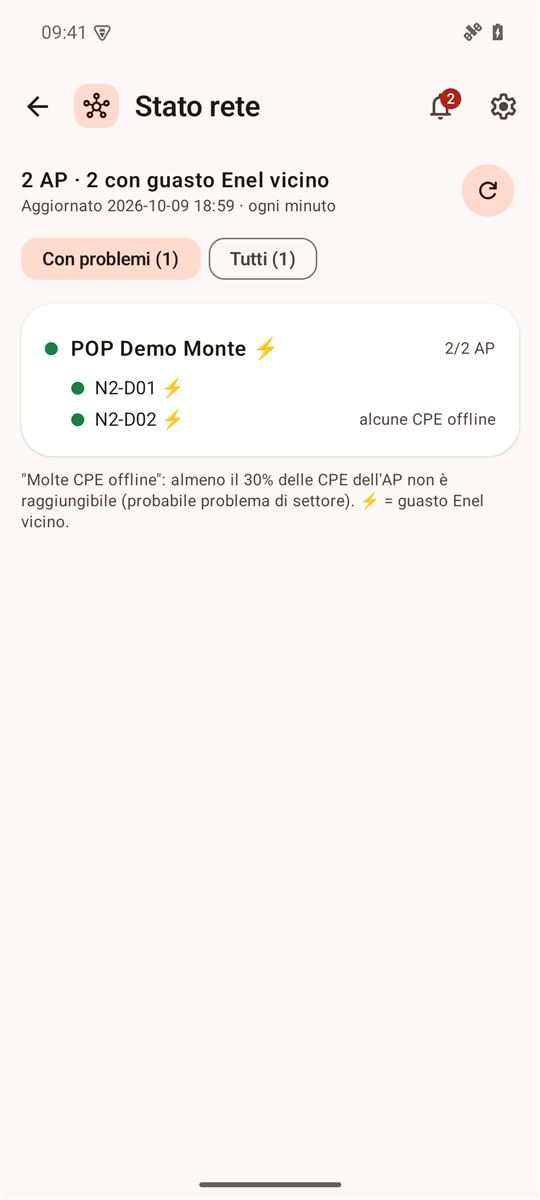
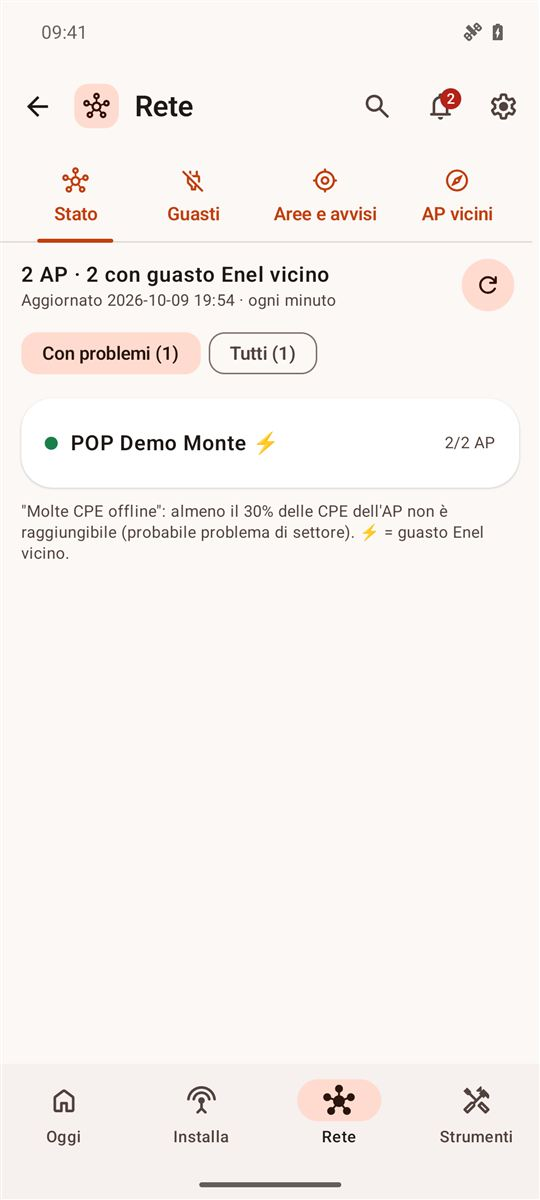
Guide aggiornate alla nuova navigazione: Oggi/Installa/Rete/Strumenti, interventi, aree di interesse, visibilità, firmware, accesso persistente

diff --git a/web/wiki/index.html b/web/wiki/index.html
@@ -19,7 +19,9 @@
   <ol>
     <li><a href="#prima">Prima di partire</a></li>
     <li><a href="#accesso">Primo avvio e accesso</a></li>
-    <li><a href="#home">La schermata principale</a></li>
+    <li><a href="#home">La schermata principale</a>
+      <ol><li><a href="#interventi">Interventi di oggi</a></li></ol>
+    </li>
     <li><a href="#installazione">Nuova installazione passo per passo</a>
       <ol>
         <li><a href="#passo1">Configurazione</a></li>
@@ -32,8 +34,16 @@
     </li>
     <li><a href="#ripuntamento">Ripuntamento, cambio AP, sostituzione</a></li>
     <li><a href="#dopo">Dopo l'installazione</a></li>
-    <li><a href="#campo">Strumenti di campo</a></li>
-    <li><a href="#monitoraggio">Stato rete e guasti Enel</a></li>
+    <li><a href="#campo">Strumenti di campo</a>
+      <ol>
+        <li><a href="#apvicini">AP vicini</a></li>
+        <li><a href="#visibilita">Visibilità verso l'AP</a></li>
+        <li><a href="#firmware">Aggiornare il firmware</a></li>
+      </ol>
+    </li>
+    <li><a href="#monitoraggio">Stato rete e guasti Enel</a>
+      <ol><li><a href="#aree">Aree e avvisi</a></li></ol>
+    </li>
     <li><a href="#rete">Strumenti di rete</a></li>
     <li><a href="#impostazioni">Impostazioni</a></li>
     <li><a href="#console">La console web</a></li>
@@ -45,7 +55,7 @@
 <main>
 <h1 id="inizio">Guida installatore</h1>
 <p class="lead">Una nuova installazione dall'inizio alla fine con l'app CDA Net CPE, più tutti gli strumenti che usi in campo e in ufficio.</p>
-<div class="note">Le schermate vengono dall'app vera (versione 1.32.9, con la nuova grafica) e dalla console web, usate con l'account installatore di prova <b>tecnico.demo</b>. Clienti, AP, indirizzi e misure sono <b>dati dimostrativi</b>, non clienti o apparati reali. <b>Tocca una schermata per ingrandirla</b>: con le frecce passi alle altre, con <i>Dimensione reale</i> leggi i dettagli, con Indietro torni alla guida.</div>
+<div class="note">Le schermate vengono dall'app vera (versione 1.32.12) e dalla console web, usate con l'account installatore di prova <b>tecnico.demo</b>. Clienti, AP, indirizzi e misure sono <b>dati dimostrativi</b>, non clienti o apparati reali. <b>Tocca una schermata per ingrandirla</b>: con le frecce passi alle altre, con <i>Dimensione reale</i> leggi i dettagli, con Indietro torni alla guida.</div>
 
 <h2 id="prima">1. Prima di partire</h2>
 <div class="card">
@@ -53,8 +63,8 @@
     <li><b>Telefono Android</b> con l'app <b>CDA Net CPE</b> installata e aggiornata. L'app si aggiorna da sola: se c'è una versione nuova va installata prima di poter lavorare.</li>
     <li><b>Account installatore</b> (utente e password) ricevuto dall'amministratore. Vedi solo le tue installazioni e i POP/AP che ti sono stati assegnati.</li>
     <li><b>Internet sul telefono</b> per preparare la configurazione. Dopo, mentre lavori sulla CPE, Internet non serve più.</li>
-    <li>La <b>CPE</b> nuova (o resettata), con l'etichetta di MAC e seriale leggibile, alimentatore PoE e cavo.</li>
-    <li>I dati del cliente: <b>utente e password PPPoE</b> (RADIUS) e l'indirizzo dell'installazione.</li>
+    <li>La <b>CPE</b> nuova (o resettata), con l'etichetta di MAC e seriale leggibile (MAC e seriale si prendono sempre dall'etichetta), alimentatore PoE e cavo.</li>
+    <li>I dati del cliente: <b>utente e password PPPoE</b> (RADIUS) e l'indirizzo dell'installazione. Se l'intervento te l'ha assegnato l'ufficio, li trovi già nell'app (vedi <a href="#interventi">Interventi di oggi</a>).</li>
   </ul>
 </div>
 <div class="tip">Alcune funzioni possono non comparire sul tuo account: le attiva l'amministratore. Se ti serve uno strumento che non vedi, chiedi a lui.</div>
@@ -67,29 +77,36 @@
   <figure><img src="img/app-login.jpg" alt="Schermata di accesso" loading="lazy"><figcaption>Accesso installatore, con il server CDA Net e Verifica collegamento.</figcaption></figure>
   <figure><img src="img/app-aggiornamento.jpg" alt="Aggiornamento obbligatorio" loading="lazy"><figcaption>Se esce una versione nuova l'app la scarica da sola: autorizza l'installazione e conferma.</figcaption></figure>
 </div>
-<h3>Accesso rapido con impronta o volto</h3>
-<p>Dopo il primo accesso con la password l'app propone l'<b>accesso rapido</b>: tocca <b>Attiva</b> e da quel momento al login basta impronta o volto. La password non viene salvata sul telefono. Serve un'impronta o il volto già registrato nelle impostazioni di sicurezza del telefono. Si disattiva da <a href="#impostazioni">Impostazioni</a>.</p>
+<h3>Resti collegato</h3>
+<p>Dopo il primo accesso con la password l'app <b>resta collegata</b>: le volte successive si apre direttamente, senza password. La sessione si rinnova a ogni apertura e scade solo se non usi l'app per 30 giorni. Torna la richiesta della password se cambi la password, se tocchi <b>Esci</b>, dopo una reinstallazione dell'app o se l'amministratore disattiva l'account. La password non viene mai salvata sul telefono.</p>
+<p>Per più sicurezza, in <a href="#impostazioni">Impostazioni</a> attiva <b>Sblocco con impronta o volto a ogni apertura</b>: l'app chiede impronta o volto ogni volta che la apri o ci torni dopo più di un minuto.</p>
 <h3>Aggiornamento obbligatorio</h3>
 <p>Quando il server pubblica una versione nuova dell'app, quella vecchia non permette più di accedere: compare <i>Aggiornamento obbligatorio</i>, il download parte da solo e viene verificato. La prima volta Android chiede di <b>consentire l'installazione da questa origine</b>: tocca <b>Apri l'autorizzazione</b>, attiva l'interruttore, torna indietro e tocca <b>Ho autorizzato, installa</b>.</p>
 <p>Il tema chiaro o scuro segue quello del telefono.</p>
 
 <h2 id="home">3. La schermata principale</h2>
-<p>In alto c'è il riquadro arancione con il tuo nome e i due interventi che fai più spesso: <b>Nuova installazione</b> e <b>Ripuntamento o cambio AP</b>. Se hai un intervento lasciato a metà, al loro posto compare <b>Riprendi l'intervento</b>.</p>
-<p>Sotto, gli strumenti sono divisi in gruppi, ognuno con la sua icona:</p>
+<p>In basso c'è la barra con le quattro aree dell'app, sempre a portata di pollice:</p>
 <ul>
-  <li><b>Il mio lavoro</b>: Storico, <a href="#notifiche">Notifiche</a>, Le mie CPE;</li>
-  <li><b>Rete e guasti</b>: Stato rete, Guasti Enel, Copertura;</li>
-  <li><b>In campo</b>: Trova l'AP, Puntamento antenna, Diagnosi CPE;</li>
-  <li><b>Strumenti di rete</b>: Wi-Fi Analyzer, scanner, diagnostica, TVCC, MikroTik, accesso remoto;</li>
-  <li><b>Aiuto</b>: questa guida.</li>
+  <li><b>Oggi</b>: la schermata principale;</li>
+  <li><b>Installa</b>: le tue installazioni (<a href="#dopo">da completare, storico, stato delle CPE</a>);</li>
+  <li><b>Rete</b>: <a href="#monitoraggio">stato della rete, guasti Enel, aree di interesse e AP vicini</a>;</li>
+  <li><b>Strumenti</b>: <a href="#campo">CPE collegata</a>, <a href="#rete">strumenti di rete</a> e questa guida.</li>
 </ul>
-<p>In alto a destra, in ogni schermata, la <b>campanella</b> apre le <a href="#notifiche">Notifiche</a> (il numero rosso indica quelle da leggere) e l'<b>ingranaggio</b> le <a href="#impostazioni">Impostazioni</a>.</p>
+<p>In <b>Oggi</b>, in alto, il riquadro arancione con il tuo nome e i due interventi che fai più spesso: <b>Nuova installazione</b> e <b>Ripuntamento o cambio AP</b>. Se hai un intervento lasciato a metà compare <b>Riprendi l'intervento</b>. Sotto trovi gli <a href="#interventi">interventi di oggi</a> assegnati dall'ufficio, i contatori (installazioni da completare, notifiche, guasti nelle tue zone, CPE con problemi: toccane uno per aprirlo) e le scorciatoie.</p>
+<p>In alto a destra, in ogni schermata: la <b>lente</b> cerca un cliente, un MAC o un SSID tra le tue installazioni e le tue CPE; la <b>campanella</b> apre le <a href="#notifiche">Notifiche</a> (il numero rosso indica quelle da leggere); l'<b>ingranaggio</b> apre le <a href="#impostazioni">Impostazioni</a>.</p>
 <div class="shots">
-  <figure><img src="img/app-home.jpg" alt="Home dell'app" loading="lazy"><figcaption>Home: nuova installazione o ripuntamento, poi Il mio lavoro e Rete e guasti.</figcaption></figure>
-  <figure><img src="img/app-home2.jpg" alt="Home, strumenti di campo e di rete" loading="lazy"><figcaption>Più in basso: In campo e Strumenti di rete.</figcaption></figure>
-  <figure><img src="img/app-home3.jpg" alt="Home, altri strumenti e guida" loading="lazy"><figcaption>In fondo: gli altri strumenti di rete e la Guida, con la versione dell'app.</figcaption></figure>
+  <figure><img src="img/app-home.jpg" alt="Oggi" loading="lazy"><figcaption>Oggi: nuova installazione o ripuntamento e gli interventi del giorno.</figcaption></figure>
+  <figure><img src="img/app-home2.jpg" alt="Oggi, contatori e scorciatoie" loading="lazy"><figcaption>Contatori e scorciatoie; in basso le quattro aree.</figcaption></figure>
+  <figure><img src="img/app-cerca.jpg" alt="Ricerca" loading="lazy"><figcaption>Ricerca per cliente, MAC o SSID.</figcaption></figure>
 </div>
-<p>Questa guida si apre anche dall'app, dal riquadro <b>Guida</b>.</p>
+<h3 id="interventi">Interventi di oggi</h3>
+<p>Gli interventi che l'ufficio ti ha assegnato per oggi compaiono in <b>Oggi</b> con cliente, fascia oraria, tipo (nuova installazione, ripuntamento, guasto, sopralluogo), indirizzo, contatto e note:</p>
+<ul>
+  <li><b>Inizia</b>: per una nuova installazione apre il <a href="#passo1">passo 1</a> con cliente, posizione, modello e utente PPPoE già compilati. La password PPPoE la conosce solo il server: non la vedi e non devi scriverla.</li>
+  <li><b>Naviga</b>: apre il navigatore verso l'indirizzo.</li>
+  <li><b>Rimanda</b>: scrivi il motivo (per esempio <i>cliente assente</i>); l'ufficio lo vede subito.</li>
+</ul>
+<p>Quando il provisioning riesce, l'intervento si chiude da solo. Con Internet l'app scarica in anticipo anche gli AP intorno a ogni indirizzo, così <a href="#apvicini">AP vicini</a> funziona pure su un tetto senza segnale.</p>
 <p>Se compare un avviso arancione in alto (per esempio <i>collaudi in attesa di invio</i>) non devi fare nulla: i dati partono da soli appena il telefono torna online.</p>
 
 <h2 id="installazione">4. Nuova installazione passo per passo</h2>
@@ -110,14 +127,15 @@
 <h3 id="passo1">Passo 1 · Configurazione</h3>
 <ol class="steps">
   <li><b>Modello</b>: scegli il modello della CPE. Il <i>Template</i> si imposta da solo. Se compare "Nessun template airOS per …" quel modello non è ancora pronto: avvisa l'amministratore.</li>
-  <li><b>MAC</b> e <b>Seriale</b>: scrivili dall'etichetta oppure tocca <b>Scansiona etichetta (barcode/QR)</b>. Sotto il campo vedi il MAC nel formato che verrà usato.</li>
-  <li><b>Posizione CPE e AP consigliati</b>: tocca <b>Usa GPS del telefono</b> stando nel punto dove monterai l'antenna, oppure cerca l'indirizzo. L'app propone gli <b>AP consigliati da qui</b> con distanza, direzione, tilt e segnale stimato; il primo è già scelto, con <b>Usa</b> ne prendi un altro.</li>
+  <li><b>MAC</b> e <b>Seriale</b>: tocca <b>Scansiona etichetta (barcode/QR)</b> sull'etichetta della CPE (o scrivili da lì). Il MAC dell'etichetta è quello della LAN, lo stesso che usa la rete per riconoscere la CPE. Sotto il campo vedi il MAC nel formato che verrà usato. Prima di scrivere la configurazione l'app controlla che il MAC sia proprio quello della CPE collegata.</li>
+  <li><b>Rileva il modello dalla CPE</b>: collegato alla Wi-Fi della CPE, l'app chiede alla CPE il suo modello e lo imposta.</li>
+  <li><b>Posizione CPE e AP consigliati</b>: tocca <b>Usa GPS del telefono</b> stando nel punto dove monterai l'antenna, oppure cerca l'indirizzo. L'app propone gli <b>AP consigliati da qui</b> con distanza, direzione, tilt e segnale stimato; il primo è già scelto, con <b>Usa</b> ne prendi un altro. Con <a href="#visibilita">Visibilità</a> controlli prima di salire se il terreno copre l'AP.</li>
   <li><b>Wireless Station</b>: nodo, distretto ed eventuale <b>Rilancio</b> si compilano dall'AP scelto; l'SSID risultante è del tipo <code>CDA-NET-N2-D01</code> (con rilancio <code>CDA-NET-N2-D01-R1</code>).</li>
   <li><b>Router / PPPoE</b>: utente e password PPPoE del cliente. Dall'utente l'app ricava il nome del dispositivo (es. <i>CLIENTE DEMO11</i>). La password serve solo per questo provisioning e non viene salvata.</li>
   <li>Con <b>Verifica piano</b> vedi l'elenco di tutto quello che verrà scritto nella CPE. Poi tocca <b>Prepara provisioning</b>.</li>
 </ol>
 <div class="shots">
-  <figure><img src="img/app-config.jpg" alt="Passo 1, modello, MAC e GPS" loading="lazy"><figcaption>Modello, template, MAC/seriale e posizione dal GPS.</figcaption></figure>
+  <figure><img src="img/app-config.jpg" alt="Passo 1, modello, MAC e seriale" loading="lazy"><figcaption>Modello, template, MAC e seriale dall'etichetta, Rileva il modello dalla CPE.</figcaption></figure>
   <figure><img src="img/app-config2.jpg" alt="AP consigliati" loading="lazy"><figcaption>AP consigliati con segnale stimato; sotto, nodo, distretto, rilancio e SSID.</figcaption></figure>
   <figure><img src="img/app-prepara.jpg" alt="PPPoE e preparazione" loading="lazy"><figcaption>Dati PPPoE e Verifica piano: tutto quello che verrà scritto nella CPE.</figcaption></figure>
 </div>
@@ -154,10 +172,16 @@
 </div>
 
 <h3 id="passo5">Passo 5 · Puntamento</h3>
-<p>Il numero grande è il <b>segnale ricevuto dalla CPE</b>, aggiornato di continuo, con il valore <b>atteso</b> calcolato dall'AP e il <b>picco</b> raggiunto. Il grafico mostra l'andamento: la linea verde tratteggiata è la soglia "buono", quella rossa il minimo accettabile. Con il <b>bip</b> attivo il tono sale quando il segnale migliora: ruota lentamente l'antenna in orizzontale, poi in verticale, e fermati sul picco.</p>
+<p>Il numero grande è il <b>segnale ricevuto dalla CPE</b>, aggiornato di continuo, con il valore <b>atteso</b> calcolato dall'AP e il <b>picco</b> raggiunto. Il grafico mostra l'andamento: la linea verde tratteggiata è la soglia "buono", quella rossa il minimo accettabile. Ruota lentamente l'antenna in orizzontale, poi in verticale, e fermati sul picco. Sotto il numero ci sono gli aiuti per il tetto, da usare con il telefono in tasca o appoggiato al palo:</p>
+<ul>
+  <li><b>Bip</b>: il tono sale quando il segnale migliora;</li>
+  <li><b>Voce</b>: l'app legge il segnale ad alta voce (<i>meno 58</i>);</li>
+  <li><b>Vibra al picco</b>: una vibrazione ogni volta che superi il picco raggiunto.</li>
+</ul>
+<p>Durante il puntamento, la bussola, il mirino e tutta l'installazione lo schermo resta acceso.</p>
 <p>Sotto trovi la <b>direzione dell'AP</b> (azimut, tilt, distanza) e i pulsanti per <b>Mirino in realtà aumentata</b>, <b>Bussola verso l'AP</b>, <b>Mappa e lista degli AP</b> e il <b>Puntamento a schermo intero</b>. <b>Azzera picco e grafico</b> ricomincia la misura.</p>
 <div class="shots">
-  <figure><img src="img/app-puntamento.jpg" alt="Puntamento" loading="lazy"><figcaption>−61 dBm (ottimo), atteso −60, picco −59, catene bilanciate, con il grafico.</figcaption></figure>
+  <figure><img src="img/app-puntamento.jpg" alt="Puntamento" loading="lazy"><figcaption>−62 dBm (ottimo), atteso −60, picco −60, catene bilanciate; sotto Bip, Voce e Vibra al picco.</figcaption></figure>
   <figure><img src="img/app-puntamento2.jpg" alt="Direzione dell'AP" loading="lazy"><figcaption>Direzione dell'AP e strumenti di puntamento.</figcaption></figure>
   <figure><img src="img/app-mirino.jpg" alt="Mirino in realtà aumentata" loading="lazy"><figcaption>Mirino AR: porta il cerchio sull'obiettivo seguendo le indicazioni ("gira a sinistra", "alza"). Qui lo sfondo è la fotocamera di prova dell'emulatore; sul telefono vedi il paesaggio.</figcaption></figure>
 </div>
@@ -199,10 +223,14 @@
 
 <h2 id="ripuntamento">5. Ripuntamento, cambio AP, sostituzione</h2>
 <p><b>CPE già installata: ripuntamento o cambio AP</b> salta configurazione e scrittura: ti colleghi alla Wi-Fi della CPE o del router del cliente, l'app trova la CPE e riparti da <a href="#passo3">Verifica della CPE</a>. Se la CPE era stata installata con l'app, collaudo e foto finali si aggiungono a quell'installazione; altrimenti il collaudo si può condividere ma non salvare sul server.</p>
-<p>Ci arrivi anche da <a href="#dopo">Le mie CPE</a> con il pulsante <b>Ripuntamento</b> su una CPE con segnale calato.</p>
+<p>Ci arrivi anche da <a href="#dopo">Installa → Stato CPE</a> con il pulsante <b>Ripuntamento</b> su una CPE con segnale calato.</p>
 <p><b>Sostituzione CPE</b> (antenna guasta): dallo <a href="#dopo">Storico</a> apri l'installazione e tocca <b>Sostituisci CPE</b>. Parte una nuova installazione con i dati del cliente già compilati: inserisci il MAC della CPE nuova e prosegui come al <a href="#passo1">passo 1</a>.</p>
 
 <h2 id="dopo">6. Dopo l'installazione</h2>
+<p>Tutto si trova in <b>Installa</b>, nella barra in basso, con tre schede: <b>Da completare</b> (installazioni con collaudo mancante, rifiutato dal NOC o scrittura fallita, con il pulsante per riprenderle), <b>Storico</b> e <b>Stato CPE</b>.</p>
+<div class="shots">
+  <figure><img src="img/app-installazioni.jpg" alt="Installazioni da completare" loading="lazy"><figcaption>Da completare: un collaudo rifiutato dal NOC e una scrittura fallita.</figcaption></figure>
+</div>
 <h3>Storico</h3>
 <p>Tutti i tuoi provisioning, con esito (<i>Preparato</i>, <i>Completato</i>, <i>Fallito</i> con il motivo), collaudo, eventuali rimandi o KO e approvazione del NOC. Da qui apri <b>Storico segnale (7 giorni)</b>, <b>Collaudo / foto</b> e <b>Sostituisci CPE</b>.</p>
 <h3 id="notifiche">Notifiche</h3>
@@ -210,7 +238,7 @@
 <div class="shots">
   <figure><img src="img/app-notifiche.jpg" alt="Notifiche" loading="lazy"><figcaption>Esiti del NOC: una installazione rifiutata con la nota, una accettata.</figcaption></figure>
 </div>
-<h3>Le mie CPE</h3>
+<h3>Stato CPE (le mie CPE)</h3>
 <p>Lo stato attuale delle CPE che hai installato, confrontato con il collaudo: <i>offline</i>, <i>segnale debole</i>, <i>segnale calato</i> (almeno 6 dB in meno rispetto al collaudo), porta LAN lenta. Puoi cercare per cliente, MAC, AP o SSID e filtrare. Tocca una CPE per i dettagli, lo storico di 7 giorni e il ripuntamento.</p>
 <div class="shots">
   <figure><img src="img/app-storico.jpg" alt="Storico" loading="lazy"><figcaption>Storico: esito, collaudo e decisione del NOC per ogni installazione.</figcaption></figure>
@@ -219,40 +247,67 @@
 </div>
 
 <h2 id="campo">7. Strumenti di campo</h2>
-<h3>Trova l'AP</h3>
-<p>Gli AP vicini sulla <b>mappa</b> (aree approssimative, con la linea di puntamento dalla tua posizione) e in <b>lista</b> con distanza, altitudine, azimut, tilt e segnale stimato. Imposta l'<b>altezza della CPE dal suolo</b> per un tilt più preciso. Da ogni AP apri <b>Mirino (fotocamera)</b> o <b>Bussola</b>. I ponti radio non compaiono: solo AP a cui si possono agganciare i clienti.</p>
+<h3>CPE collegata</h3>
+<p>Tutto quello che fai con la CPE in mano, collegandoti una sola volta alla sua Wi-Fi (o a quella del router del cliente). La apri da <b>Strumenti</b> o dalle scorciatoie di <b>Oggi</b>. Ha cinque schede:</p>
+<ul>
+  <li><b>Diagnosi</b>: per i guasti. Ti dice in rosso cosa non va (non agganciata, PPPoE non attivo, cavo LAN, firmware, riavvii frequenti); con <b>Condividi rapporto</b> mandi il riepilogo al NOC.</li>
+  <li><b>Puntamento</b>: lo stesso strumento del <a href="#passo5">passo 5</a>, con Bip, Voce e Vibra al picco.</li>
+  <li><b>AP visibili</b>: la scansione fatta dalla radio della CPE, con l'aggancio a un altro AP (vedi <a href="#passo4">passo 4</a>).</li>
+  <li><b>Collaudo</b>: misure, test Internet, foto e note (vedi <a href="#passo6">passo 6</a>).</li>
+  <li><b>Firmware</b>: porta la CPE alla versione richiesta (vedi <a href="#firmware">sotto</a>).</li>
+</ul>
 <div class="shots">
-  <figure><img src="img/app-trova-ap.jpg" alt="Trova l'AP, mappa" loading="lazy"><figcaption>Mappa: la freccia rossa sei tu, la linea punta all'AP.</figcaption></figure>
-  <figure><img src="img/app-trova-ap-lista.jpg" alt="Trova l'AP, lista" loading="lazy"><figcaption>Lista: azimut e tilt rispetto al nord vero.</figcaption></figure>
-</div>
-<h3>Copertura</h3>
-<p>Prima del sopralluogo: dal GPS o da un indirizzo vedi gli AP più vicini con mappa, distanza, direzione e segnale stimato dalle CPE già collegate in zona. Ogni AP ha <b>Mappa</b> e <b>Bussola</b>.</p>
-<h3>Puntamento antenna e Diagnosi CPE</h3>
-<p><b>Puntamento antenna</b> è lo stesso strumento del passo 5, utilizzabile da solo. <b>Diagnosi CPE</b> serve per i guasti: collegato alla CPE (o al router del cliente) ti dice in rosso cosa non va (non agganciata, PPPoE non attivo, cavo LAN, firmware, riavvii frequenti) e con <b>Condividi rapporto</b> mandi il riepilogo al NOC.</p>
-<div class="shots">
-  <figure><img src="img/app-copertura.jpg" alt="Copertura" loading="lazy"><figcaption>Copertura dal GPS: mappa e AP più vicini con direzione e segnale stimato.</figcaption></figure>
-  <figure><img src="img/app-diagnosi.jpg" alt="Diagnosi senza problemi" loading="lazy"><figcaption>Diagnosi: nessun problema.</figcaption></figure>
+  <figure><img src="img/app-cpe-diagnosi.jpg" alt="CPE collegata, diagnosi" loading="lazy"><figcaption>CPE collegata, Diagnosi: nessun problema.</figcaption></figure>
   <figure><img src="img/app-diagnosi-guasto.jpg" alt="Diagnosi con guasto" loading="lazy"><figcaption>Diagnosi: CPE non agganciata e PPPoE giù, con cosa controllare.</figcaption></figure>
+</div>
+<h3 id="apvicini">AP vicini</h3>
+<p>In <b>Rete → AP vicini</b>. Con <b>Da qui</b> parti dal GPS del telefono, con <b>Da un indirizzo</b> prepari il sopralluogo dall'ufficio. Vedi gli AP sulla <b>mappa</b> (aree approssimative, con la linea di puntamento dalla tua posizione) e in <b>lista</b> con distanza, altitudine, azimut, tilt e segnale stimato dalle CPE già collegate in zona. Imposta l'<b>altezza della CPE dal suolo</b> per un tilt più preciso. Da ogni AP apri <b>Mirino</b>, <b>Bussola</b> o <b>Visibilità</b>. I ponti radio non compaiono: solo AP a cui si possono agganciare i clienti.</p>
+<p><b>Senza rete</b>: ogni ricerca riuscita resta sul telefono per 14 giorni, e quelle intorno agli interventi del giorno vengono scaricate in anticipo. Se sul tetto non c'è segnale, l'app usa i dati salvati entro 400 m e te lo dice. La mappa invece richiede Internet: usa lista, bussola e mirino.</p>
+<h3 id="visibilita">Visibilità verso l'AP</h3>
+<p>Prima di salire, <b>Visibilità</b> disegna il profilo del terreno tra te e l'AP, la linea di vista e la zona che deve restare libera per un buon segnale (60% della prima zona di Fresnel). Dice se la vista è <b>libera</b>, se il terreno <b>entra nella zona di Fresnel</b> (il segnale può calare) o se è <b>ostruita</b>, e di quanto alzare il palo; quando nessun palo realistico basta, ti suggerisce un altro AP. Conta solo il terreno: edifici e alberi vanno verificati a vista.</p>
+<div class="shots">
+  <figure><img src="img/app-ap-vicini.jpg" alt="AP vicini, lista" loading="lazy"><figcaption>AP vicini da qui: distanza, azimut, tilt, segnale stimato.</figcaption></figure>
+  <figure><img src="img/app-visibilita.jpg" alt="Visibilità verso l'AP" loading="lazy"><figcaption>Visibilità: terreno che copre l'AP a 3,5 km, meglio un altro AP.</figcaption></figure>
+  <figure><img src="img/app-trova-ap.jpg" alt="AP vicini, mappa" loading="lazy"><figcaption>Mappa: la freccia rossa sei tu, la linea punta all'AP.</figcaption></figure>
+</div>
+<h3 id="firmware">Aggiornare il firmware della CPE</h3>
+<p>La configurazione si scrive solo su CPE con il firmware richiesto (8.7.4). Se la CPE ne ha un altro, l'app blocca la scrittura e ti manda qui. Questa funzione è disponibile se l'ha attivata l'amministratore.</p>
+<ol class="steps">
+  <li><b>Con Internet</b>, in <b>CPE collegata → Firmware</b>, tocca <b>Scarica</b> sul firmware della piattaforma che usi (es. <i>XC · 8.7.4</i>). Il file resta sul telefono, controllato.</li>
+  <li>Sulla <b>Wi-Fi della CPE</b> tocca <b>Leggi la versione della CPE</b>: vedi piattaforma e versione attuali.</li>
+  <li>Tocca <b>Aggiorna a 8.7.4</b> e conferma. L'app controlla che il firmware sia quello della piattaforma della CPE e che sia arrivato integro, poi la CPE si aggiorna e si riavvia da sola (3-5 minuti).</li>
+</ol>
+<div class="warnbox">Durante l'aggiornamento <b>non togliere alimentazione alla CPE</b> e non chiudere l'app: se la scrittura si interrompe la CPE può non ripartire. Se Android lascia la Wi-Fi della CPE durante il riavvio, ricollegati: l'app aspetta e poi rilegge la versione.</div>
+<div class="shots">
+  <figure><img src="img/app-firmware.jpg" alt="Firmware" loading="lazy"><figcaption>Firmware 8.7.4 già sul telefono, pronto per la CPE.</figcaption></figure>
 </div>
 
 <h2 id="monitoraggio">8. Stato rete e guasti Enel</h2>
-<h3>Stato rete</h3>
+<p>In <b>Rete</b>, nella barra in basso, con quattro schede: <b>Stato</b>, <b>Guasti</b>, <b>Aree e avvisi</b> e <a href="#apvicini">AP vicini</a>.</p>
+<h3>Stato</h3>
 <p>I POP e gli AP che ti sono assegnati, aggiornati ogni minuto: raggiungibili o no, AP con molte CPE offline (probabile problema di settore) e il simbolo ⚡ quando c'è un guasto Enel vicino. All'apertura vedi solo quelli <b>con problemi</b>; con <b>Tutti</b> li vedi tutti.</p>
-<h3>Guasti Enel</h3>
+<h3>Guasti</h3>
 <p>Le interruzioni della rete elettrica nelle tue zone: mappa e lista compatta (guasti in media tensione in rosso, bassa tensione in arancio, lavori programmati in grigio). Tocca una riga per i dettagli: ripristino previsto, POP/AP potenzialmente impattati, <b>Sulla mappa</b> (centra la mappa sul guasto) e <b>Navigatore</b>.</p>
-<p>In alto attivi le <b>notifiche sul telefono</b> (anche ad app chiusa) e, se l'amministratore ha attivato il bot, le <b>notifiche Telegram</b> personali con <b>Collega Telegram</b>. In <b>Le mie zone di interesse</b> aggiungi fino a 20 zone (dal GPS o da indirizzo, con raggio in km).</p>
+<h3 id="aree">Aree e avvisi</h3>
+<p><b>Notifiche sul telefono</b>: attivale per essere avvisato anche ad app chiusa. <b>Le mie aree di interesse</b> sono i luoghi che vuoi seguire anche fuori dai POP/AP che ti sono assegnati: casa, una frazione, il paese di un cliente. Aggiungi un'area dal GPS o da un indirizzo, con il raggio. Per ogni area scegli quali avvisi ricevere:</p>
+<ul>
+  <li><b>Guasti MT</b> (media tensione), <b>Guasti BT</b> (bassa tensione), <b>Lavori</b> programmati;</li>
+  <li>con l'interruttore la metti <b>in pausa</b>: non ti avvisa, ma i guasti restano in elenco;</li>
+  <li><b>Raggio</b> cambia l'estensione, <b>Elimina</b> la toglie.</li>
+</ul>
+<p>Accanto al nome vedi quanti guasti ci sono ora nell'area. Le stesse regole valgono per le notifiche Telegram, che si collegano in <a href="#impostazioni">Impostazioni</a>.</p>
 <div class="shots">
-  <figure><img src="img/app-stato-rete.jpg" alt="Stato rete" loading="lazy"><figcaption>Stato rete: POP Demo Monte aperto, con i due AP vicini a un guasto Enel.</figcaption></figure>
-  <figure><img src="img/app-guasti.jpg" alt="Guasti Enel" loading="lazy"><figcaption>Guasti Enel: legenda della mappa, POP/AP assegnati e lista compatta.</figcaption></figure>
+  <figure><img src="img/app-stato-rete.jpg" alt="Stato rete" loading="lazy"><figcaption>Stato: POP Demo Monte con un guasto Enel vicino.</figcaption></figure>
+  <figure><img src="img/app-guasti.jpg" alt="Guasti Enel" loading="lazy"><figcaption>Guasti: mappa e lista compatta.</figcaption></figure>
   <figure><img src="img/app-guasti-dettaglio.jpg" alt="Dettaglio guasto" loading="lazy"><figcaption>Dettaglio: POP e AP potenzialmente impattati, Sulla mappa, Navigatore.</figcaption></figure>
-  <figure><img src="img/app-guasti-zona.jpg" alt="Zone di interesse" loading="lazy"><figcaption>Nuova zona di interesse dal GPS.</figcaption></figure>
+  <figure><img src="img/app-aree.jpg" alt="Aree e avvisi" loading="lazy"><figcaption>Aree di interesse con le regole di ciascuna.</figcaption></figure>
 </div>
 
 <h2 id="rete">9. Strumenti di rete</h2>
-<p>Funzionano anche senza accesso al server (<i>Continua senza accesso</i>), sulla rete a cui è collegato il telefono:</p>
+<p>In <b>Strumenti</b>, nella barra in basso, divisi per gruppi (con la CPE, rete del cliente, aiuto). Funzionano anche senza accesso al server (<i>Continua senza accesso</i>), sulla rete a cui è collegato il telefono:</p>
 <table>
   <tr><th>Strumento</th><th>A cosa serve</th></tr>
-  <tr><td>Wi-Fi Analyzer</td><td>Reti, canali e segnale intorno a te, per scegliere il canale del router del cliente</td></tr>
+  <tr><td>Wi-Fi Analyzer</td><td>Reti, canali e segnale intorno a te; <b>Router del cliente</b> dice canale e larghezza da impostare (2.4 e 5 GHz) e se cambiarli</td></tr>
   <tr><td>Strumenti di rete</td><td>Stato connessione, ping, traceroute, DNS, speed test verso il server CDA Net</td></tr>
   <tr><td>Scanner IP</td><td>Host attivi nella LAN: nome, produttore, tipo di apparato, porte principali; elenco o mappa di rete, esportazione CSV</td></tr>
   <tr><td>Port scanner</td><td>Porte aperte su un host, con banner, header HTTP e certificati TLS</td></tr>
@@ -263,27 +318,34 @@
   <tr><td>MikroTik · RouterOS</td><td>Consultazione in sola lettura via SSH</td></tr>
   <tr><td>Accesso remoto</td><td>SSH e Remote Desktop con app esterne</td></tr>
 </table>
+<h3>Canale del router del cliente</h3>
+<p>Nel <b>Wi-Fi Analyzer</b>, vicino al router del cliente, il riquadro <b>Router del cliente</b> sceglie la rete del router (quella a cui è collegato il telefono, o una delle più forti) e riconosce da solo le due bande dello stesso router (es. <i>Casa</i> e <i>Casa_5G</i>). Per ogni banda vedi il canale attuale, quanto è libero e se <b>va bene</b> o è <b>da cambiare</b>, con canale e larghezza consigliati: in 2.4 GHz solo 1, 6 o 11 a 20 MHz; in 5 GHz 80 MHz quando un blocco intero è libero, preferendo i canali non DFS.</p>
+<div class="shots">
+  <figure><img src="img/app-strumenti.jpg" alt="Strumenti" loading="lazy"><figcaption>Strumenti: con la CPE e per la rete del cliente.</figcaption></figure>
+  <figure><img src="img/app-wifi-router.jpg" alt="Router del cliente" loading="lazy"><figcaption>Router del cliente: canale 6 va bene in 2.4 GHz, consigliato 36 a 80 MHz in 5 GHz.</figcaption></figure>
+</div>
 
 <h2 id="impostazioni">10. Impostazioni</h2>
-<p>Dall'ingranaggio: il tuo account e la scadenza della sessione, <b>Esci</b>, <b>Cambia password</b> (almeno 12 caratteri), <b>Accesso rapido</b> con impronta o volto, <b>Notifiche su Telegram</b>, <b>Esci da tutti i dispositivi</b> (telefono perso) e l'indirizzo del server.</p>
+<p>Dall'ingranaggio: il tuo account, <b>Esci</b> (scollega questo telefono: la prossima volta serve la password), <b>Cambia password</b> (almeno 12 caratteri), <b>Accesso su questo telefono</b> (fino a quando resti collegato e l'opzione <b>Sblocco con impronta o volto a ogni apertura</b>), <b>Notifiche su Telegram</b>, <b>Esci da tutti i dispositivi</b> (telefono perso) e l'indirizzo del server.</p>
 <div class="shots">
-  <figure><img src="img/app-impostazioni.jpg" alt="Impostazioni, account" loading="lazy"><figcaption>Account, cambio password e accesso rapido.</figcaption></figure>
-  <figure><img src="img/app-impostazioni2.jpg" alt="Impostazioni, accesso rapido e sessioni" loading="lazy"><figcaption>Sessioni, server, esiti in coda e versione dell'app.</figcaption></figure>
+  <figure><img src="img/app-impostazioni.jpg" alt="Impostazioni, account" loading="lazy"><figcaption>Account, cambio password e accesso su questo telefono.</figcaption></figure>
+  <figure><img src="img/app-impostazioni2.jpg" alt="Impostazioni, Telegram e sessioni" loading="lazy"><figcaption>Telegram, sessioni, server ed esiti in coda.</figcaption></figure>
 </div>
 
 <h2 id="console">11. La console web</h2>
 <p>Dal computer apri l'indirizzo del server e accedi con lo stesso utente dell'app. La configurazione delle CPE si fa solo dall'app; la console serve per consultare, esportare e stampare.</p>
 <table>
   <tr><th>Voce</th><th>Cosa trovi</th></tr>
+  <tr><td>I miei interventi</td><td>Gli interventi assegnati dall'ufficio, per giorno, con stato e note</td></tr>
   <tr><td>Storico provisioning</td><td>I tuoi provisioning con ricerca, filtri per esito e date, esportazione CSV; apri il collaudo e stampa il verbale</td></tr>
   <tr><td>Le mie CPE</td><td>Stato delle tue CPE rispetto al collaudo, con filtri, ricerca, storico ed esportazione CSV</td></tr>
-  <tr><td>Guasti Enel</td><td>Riepilogo, mappa e lista dei guasti nelle tue zone; gestione delle zone di interesse e di Telegram</td></tr>
+  <tr><td>Guasti Enel</td><td>Riepilogo, mappa e lista dei guasti nelle tue zone; le tue aree di interesse con le regole di ciascuna</td></tr>
   <tr><td>Stato rete</td><td>I tuoi POP e AP: in funzione, non raggiungibili, molte CPE offline, guasto Enel vicino</td></tr>
   <tr><td>Template disponibili</td><td>I modelli di CPE pronti per l'installazione</td></tr>
   <tr><td>Copertura</td><td>AP più vicini a un indirizzo o a coordinate, con mappa e segnale stimato</td></tr>
   <tr><td>Strumenti di rete</td><td>Ping, traceroute, DNS, scansioni eseguite dal server (punto di vista NOC)</td></tr>
   <tr><td>MikroTik · RouterOS</td><td>Consultazione in sola lettura</td></tr>
-  <tr><td>Il mio account</td><td>Password, verifica in due passaggi, sessioni, Telegram</td></tr>
+  <tr><td>Il mio account</td><td>Password, verifica in due passaggi, sessioni, telefoni collegati (scollegali da qui se perdi il telefono), Telegram</td></tr>
 </table>
 <div class="shots">
   <figure class="wide"><img src="img/web-jobs.jpg" alt="Console, storico provisioning" loading="lazy"><figcaption>Storico provisioning.</figcaption></figure>
@@ -311,6 +373,10 @@
   <tr><td>Porta LAN a 100 Mbit/s o half duplex</td><td>Cavo o connettore danneggiato: rifai i plug o cambia cavo.</td></tr>
   <tr><td>PPPoE non attivo</td><td>Controlla utente e password PPPoE o lo stato dell'abbonamento con l'ufficio.</td></tr>
   <tr><td>Collaudo in attesa di invio</td><td>Nessuna azione: parte da solo appena c'è rete.</td></tr>
+  <tr><td>"Sessione scaduta: accedi di nuovo con la password"</td><td>Non hai usato l'app per 30 giorni, hai cambiato password o l'amministratore ha scollegato il telefono: accedi di nuovo.</td></tr>
+  <tr><td>"Firmware rilevato … è richiesto 8.7.4"</td><td>Aggiorna la CPE da <a href="#firmware">CPE collegata → Firmware</a>, poi riprova con lo stesso pacchetto.</td></tr>
+  <tr><td>Visibilità ostruita</td><td>Il terreno copre l'AP: prova un altro AP o un punto più alto; edifici e alberi vanno controllati a vista.</td></tr>
+  <tr><td>AP vicini: "uso gli AP salvati"</td><td>Sei senza rete: i dati sono quelli salvati vicino a te. Azimut e tilt sono calcolati da quel punto.</td></tr>
 </table>
 
 <h2 id="glossario">13. Glossario</h2>

diff --git a/server/src/guide-admin/index.html b/server/src/guide-admin/index.html
@@ -11,7 +11,9 @@
     <li><a href="#g-server">Impostazioni server</a></li>
     <li><a href="#g-wifi">Reti Wi-Fi (WPA2)</a></li>
     <li><a href="#g-profili">Profili airOS e template</a></li>
-    <li><a href="#g-funzionalita">Funzionalità</a></li>
+    <li><a href="#g-funzionalita">Funzionalità</a>
+      <ol><li><a href="#g-interventi">Agenda interventi</a></li><li><a href="#g-firmware">Firmware airOS</a></li></ol>
+    </li>
     <li><a href="#g-account">Account e POP/AP assegnati</a></li>
     <li><a href="#g-nuovo-installatore">Un nuovo installatore, dall'account al primo intervento</a></li>
     <li><a href="#g-storico">Storico, accettazione in UISP e verbali</a></li>
@@ -26,6 +28,7 @@
 <h2 id="g-accesso">1. Accesso e sicurezza dell'account</h2>
 <p>Il primo amministratore nasce all'installazione del server. Dopo il primo accesso apri <b>Il mio account</b>: cambia la password e attiva la <b>verifica in due passaggi</b> (app di autenticazione). In <b>Account → Sicurezza</b> puoi renderla obbligatoria per tutti gli amministratori: chi non l'ha ancora attivata potrà aprire solo Il mio account finché non la attiva. Per abilitare l'obbligo devi averla già attiva tu.</p>
 <p>Gli installatori possono attivarla quando vogliono. In caso di telefono perso, <b>Esci da tutti i dispositivi</b> chiude tutte le sessioni dell'account; disabilitare un account o reimpostarne la password revoca subito le sue sessioni.</p>
+<p><b>App sempre collegata.</b> Dopo il primo accesso con la password l'app resta collegata con una chiave del telefono: si rinnova a ogni apertura e scade dopo 30 giorni senza uso (al massimo 180 giorni dal login con la password). La chiave smette di funzionare con il cambio o il reset della password, con <i>Esci da tutti i dispositivi</i>, con la disattivazione o la rimozione dell'account e con una reinstallazione dell'app. Ogni utente vede i propri telefoni in <b>Il mio account → Telefoni collegati</b> e può scollegarli. Nell'app si può chiedere impronta o volto a ogni apertura. Gli accessi automatici degli amministratori non mandano la notifica di login a ogni apertura.</p>
 <figure><img data-guide="admin-account.jpg" alt="Il mio account dell'amministratore"><figcaption>Il mio account: password, verifica in due passaggi, sessioni, Telegram personale.</figcaption></figure>
 
 <h2 id="g-panoramica">2. Panoramica</h2>
@@ -95,7 +98,12 @@
 <figure><img data-guide="admin-profiles.jpg" alt="Profili airOS"><figcaption>Profili airOS: solo LiteBeam 5AC ha un template (Standard CDA Net, per tutti).</figcaption></figure>
 
 <h2 id="g-funzionalita">8. Funzionalità</h2>
-<p>I moduli facoltativi, ognuno con l'indicazione <i>web</i>, <i>app</i> o <i>web + app</i>. Se disattivi un modulo sparisce dalla console e dall'app e il server ne rifiuta le richieste. Esempi: Copertura AP, Puntamento antenna, Diagnosi CPE, Trova l'AP, Collaudo e verbale, Sostituzione CPE, Storico segnale, Confronto con il template, Salute CPE, Guasti Enel, Stato rete, Statistiche, Strumenti di rete, RouterOS.</p>
+<p>I moduli facoltativi, ognuno con l'indicazione <i>web</i>, <i>app</i> o <i>web + app</i>. Se disattivi un modulo sparisce dalla console e dall'app e il server ne rifiuta le richieste. Esempi: Copertura AP, Puntamento antenna, Diagnosi CPE, Trova l'AP, Collaudo e verbale, Sostituzione CPE, Storico segnale, Confronto con il template, Salute CPE, Guasti Enel, Stato rete, Statistiche, Strumenti di rete, RouterOS, Agenda interventi, Aggiornamento firmware.</p>
+<h3 id="g-interventi">Agenda interventi</h3>
+<p>In <b>Interventi</b> l'ufficio pianifica la giornata di ogni installatore: giorno, fascia oraria, tipo (nuova installazione, ripuntamento, guasto, sopralluogo), cliente, indirizzo o coordinate, contatto, modello, note e i dati PPPoE del cliente. La password PPPoE viene cifrata sul server e non arriva mai al telefono: l'installatore tocca <b>Inizia</b> e il provisioning la usa da solo. Lo stato si aggiorna dal campo (<i>in corso</i>, <i>rimandato</i> con il motivo, <i>fatto</i> quando il provisioning riesce); gli interventi non chiusi dei giorni passati risultano <i>in ritardo</i>.</p>
+<h3 id="g-firmware">Firmware airOS</h3>
+<p>Il provisioning scrive solo su CPE con il firmware richiesto (8.7.4). Con il modulo <b>Aggiornamento firmware</b> attivo (spento di default), in <b>Firmware airOS</b> carichi il file <code>.bin</code> ufficiale Ubiquiti di ogni piattaforma usata dalle CPE (XC, WA, 2XC…): piattaforma e versione si leggono dal file, che viene rifiutato se non è un firmware airOS. L'installatore scarica sul telefono i firmware della versione richiesta e, dalla Wi-Fi della CPE, la aggiorna: l'app controlla piattaforma, integrità (SHA-256 e MD5) e memoria libera prima di scrivere. Download ed esiti finiscono nel Registro attività.</p>
+<div class="notice warn">Prova l'aggiornamento su una CPE di laboratorio per ogni piattaforma prima di attivare il modulo per gli installatori.</div>
 <p>Gli installatori non vedono i nomi dei moduli né le fonti dei dati: se una funzione è spenta, semplicemente non c'è.</p>
 <figure><img data-guide="admin-modules.jpg" alt="Funzionalità"><figcaption>Funzionalità: moduli con ambito web, app o entrambi.</figcaption></figure>
 
@@ -136,6 +144,7 @@
   <li><b>Zone di interesse</b>: zone automatiche attorno a ogni POP/AP monitorato, con il loro raggio, e il raggio entro cui un POP/AP è "potenzialmente impattato".</li>
   <li><b>Zone condivise</b> per aree senza AP (es. una frazione), notificate a tutti; sotto trovi anche le <b>zone personali</b> degli installatori, notificate solo a loro.</li>
 </ul>
+<p>Le <b>aree di interesse personali</b> restano di ogni utente anche fuori dai POP/AP assegnati. Per ognuna l'utente sceglie le regole: attiva o in pausa, guasti MT, guasti BT, lavori programmati. Le stesse regole valgono per le notifiche sul telefono e per il suo Telegram personale.</p>
 <p>Le notifiche partono su Telegram (gruppo del NOC e personali) e sul telefono (app → Guasti Enel → "Avvisami dei guasti").</p>
 <p><b>Stato rete</b>: tutti i POP e gli AP, raggiungibili o no, con molte CPE offline (almeno il 30%, probabile problema di settore) e guasto Enel vicino.</p>
 <figure><img data-guide="admin-outages.jpg" alt="Guasti Enel"><figcaption>Guasti Enel: un guasto MT a 556 m dal POP Demo Monte.</figcaption></figure>
